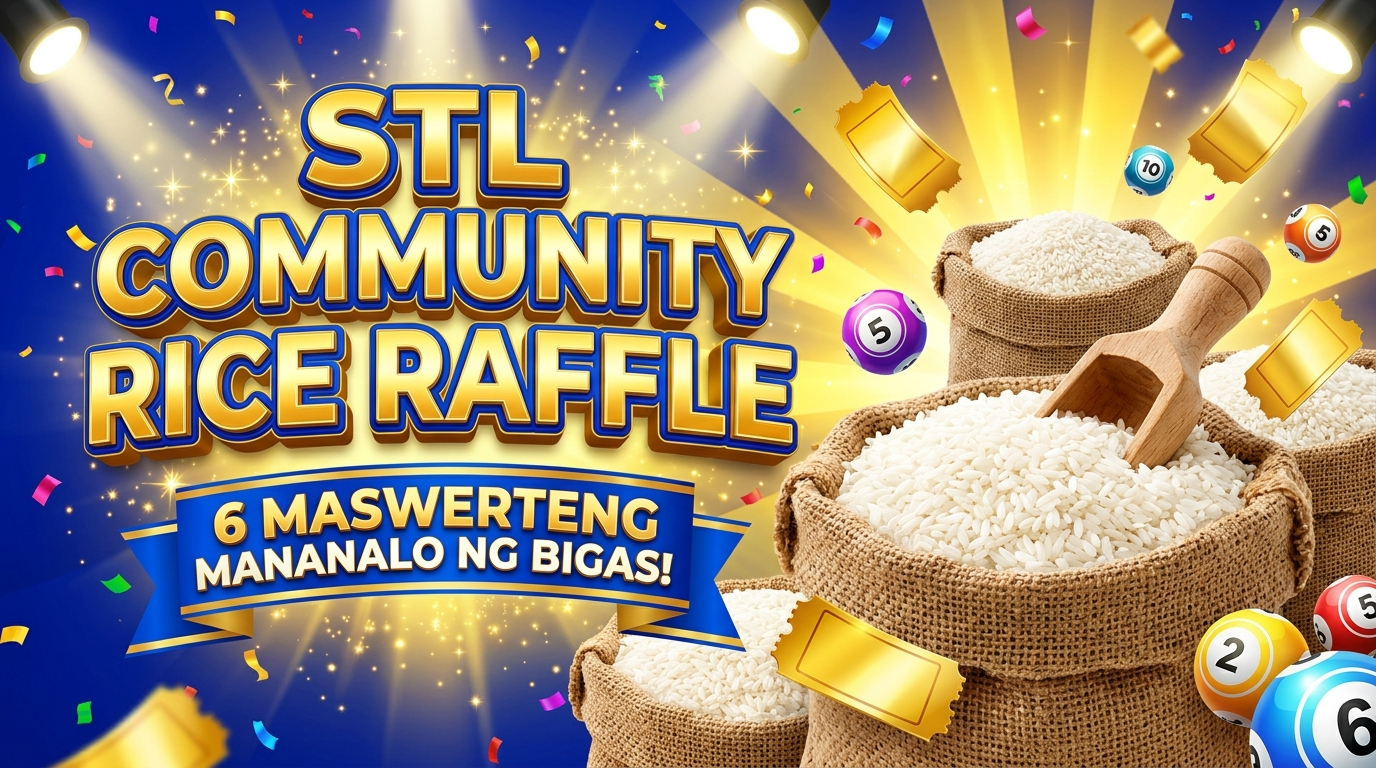
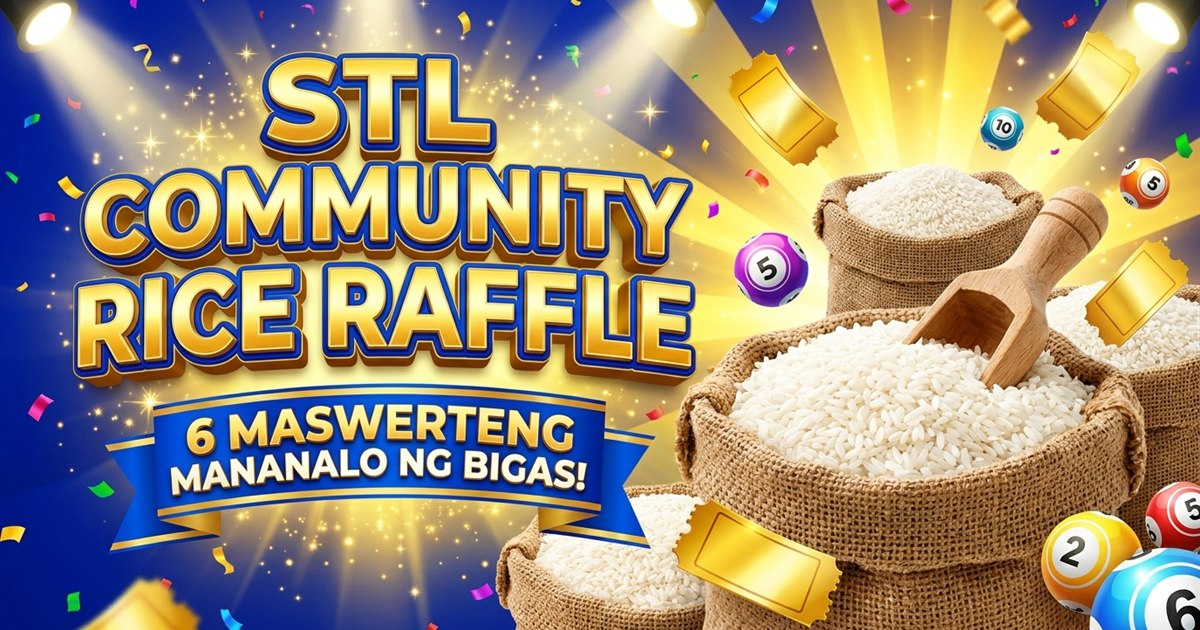
Optimize OG preview image to 1200x630 and add 1-click copy message in ShareModal

diff --git a/src/components/ShareModal.jsx b/src/components/ShareModal.jsx
@@ -23,12 +23,16 @@ function FacebookIcon({ className }) {
 
 export default function ShareModal({ onClose, customUrl = '' }) {
   const [activeTab, setActiveTab] = useState('choice'); // 'choice', 'qr', 'link'
-  const [copied, setCopied] = useState(false);
+  const [copiedLink, setCopiedLink] = useState(false);
+  const [copiedMessage, setCopiedMessage] = useState(false);
   
   // Siguraduhing laging sa LANDING PAGE (/) pupunta ang share link, hindi sa /admin
   const getLandingUrl = () => {
     if (customUrl) return customUrl;
     if (typeof window !== 'undefined') {
+      if (window.location.hostname === 'localhost' || window.location.hostname === '127.0.0.1') {
+        return 'https://stl-raffle-campaign.vercel.app/';
+      }
       return `${window.location.origin}/`;
     }
     return 'https://stl-raffle-campaign.vercel.app/';
@@ -36,28 +40,32 @@ export default function ShareModal({ onClose, customUrl = '' }) {
   const shareUrl = getLandingUrl();
   const shareTitle = '🌾 STL Community Rice Raffle | Manalo ng 5kg & 25kg Bigas!';
   const shareDescription = 'Sumali sa opisyal na STL Community Rice Raffle! 6 Maswerteng Winners ng Bigas (5kg at 25kg). I-click ang link o i-scan ang QR code gamit ang phone camera para mag-proceed sa browser at makuha ang iyong raffle ticket!';
+  const shareMessage = `🌾 STL COMMUNITY RICE RAFFLE 🌾\n6 Maswerteng Mananalo ng Bigas (5kg & 25kg)!\nSumali sa raffle at makuha ang iyong ticket dito:\n👉 ${shareUrl}`;
 
   // QR Code generator URL (350x350 high quality, 10 margin)
   const qrCodeUrl = `https://api.qrserver.com/v1/create-qr-code/?size=350x350&data=${encodeURIComponent(shareUrl)}&margin=12&format=png`;
 
-  const handleCopy = async () => {
+  const copyToClipboard = async (text, setSuccess) => {
     try {
       if (navigator.clipboard && navigator.clipboard.writeText) {
-        await navigator.clipboard.writeText(shareUrl);
+        await navigator.clipboard.writeText(text);
       } else {
         const textArea = document.createElement('textarea');
-        textArea.value = shareUrl;
+        textArea.value = text;
         document.body.appendChild(textArea);
         textArea.select();
         document.execCommand('copy');
         document.body.removeChild(textArea);
       }
-      setCopied(true);
-      setTimeout(() => setCopied(false), 2500);
+      setSuccess(true);
+      setTimeout(() => setSuccess(false), 2500);
     } catch (err) {
-      console.error('Failed to copy link:', err);
+      console.error('Failed to copy text:', err);
     }
   };
+
+  const handleCopyLink = () => copyToClipboard(shareUrl, setCopiedLink);
+  const handleCopyMessage = () => copyToClipboard(shareMessage, setCopiedMessage);
 
   const handleDownloadQr = async () => {
     try {
@@ -83,8 +91,13 @@ export default function ShareModal({ onClose, customUrl = '' }) {
   };
 
   const shareToMessenger = () => {
-    const messengerUrl = `fb-messenger://share/?link=${encodeURIComponent(shareUrl)}`;
-    window.open(messengerUrl, '_blank');
+    const isMobile = typeof navigator !== 'undefined' && /iPhone|iPad|iPod|Android/i.test(navigator.userAgent || '');
+    if (isMobile) {
+      window.location.href = `fb-messenger://share/?link=${encodeURIComponent(shareUrl)}`;
+    } else {
+      const sendUrl = `https://www.facebook.com/dialog/send?link=${encodeURIComponent(shareUrl)}&app_id=1683164939840104&redirect_uri=${encodeURIComponent(shareUrl)}`;
+      window.open(sendUrl, '_blank', 'width=650,height=600');
+    }
   };
 
   const shareToTelegram = () => {
@@ -270,17 +283,17 @@ export default function ShareModal({ onClose, customUrl = '' }) {
                   </div>
                   <button
                     type="button"
-                    onClick={handleCopy}
+                    onClick={handleCopyLink}
                     className={`inline-flex items-center justify-center gap-2 px-5 py-3 rounded-xl text-sm font-black shadow-sm transition ${
-                      copied
+                      copiedLink
                         ? 'bg-emerald-600 text-white'
                         : 'bg-emerald-600 hover:bg-emerald-700 text-white'
                     }`}
                   >
-                    {copied ? (
+                    {copiedLink ? (
                       <>
                         <Check className="w-4 h-4" />
-                        Nakopya na!
+                        Nakopya ang Link!
                       </>
                     ) : (
                       <>
@@ -290,12 +303,59 @@ export default function ShareModal({ onClose, customUrl = '' }) {
                     )}
                   </button>
                 </div>
-                {copied && (
-                  <p className="text-xs font-bold text-emerald-700 mt-2 flex items-center gap-1.5 animate-fadeIn">
-                    <Check className="w-4 h-4" />
-                    Matagumpay na nakopya! Pwede mo na i-paste sa Facebook, Messenger, Viber o SMS.
+              </div>
+
+              {/* 1-Click Copy Full Message for Messenger */}
+              <div className="p-3.5 rounded-xl bg-amber-50/80 border border-amber-200 flex flex-col sm:flex-row items-center justify-between gap-3">
+                <div className="text-left w-full sm:w-auto">
+                  <span className="text-[10px] font-black uppercase tracking-wider bg-amber-200 text-amber-900 px-2 py-0.5 rounded-md">
+                    Copy &amp; Paste sa Messenger
+                  </span>
+                  <p className="text-xs font-bold text-slate-800 mt-1">
+                    I-copy ang kumpletong mensahe na may kasamang paanyaya at link!
                   </p>
-                )}
+                </div>
+                <button
+                  type="button"
+                  onClick={handleCopyMessage}
+                  className={`w-full sm:w-auto inline-flex items-center justify-center gap-2 px-4 py-2.5 rounded-xl text-xs font-black shadow-sm transition shrink-0 ${
+                    copiedMessage
+                      ? 'bg-emerald-600 text-white'
+                      : 'bg-amber-500 hover:bg-amber-600 text-slate-950'
+                  }`}
+                >
+                  {copiedMessage ? (
+                    <>
+                      <Check className="w-4 h-4" />
+                      Nakopya ang Mensahe!
+                    </>
+                  ) : (
+                    <>
+                      <Copy className="w-4 h-4" />
+                      Kopyahin ang Mensahe
+                    </>
+                  )}
+                </button>
+              </div>
+
+              {/* Success Notification */}
+              {(copiedLink || copiedMessage) && (
+                <div className="p-2.5 rounded-xl bg-emerald-50 border border-emerald-200 text-xs font-bold text-emerald-800 flex items-center gap-2 animate-fadeIn">
+                  <Check className="w-4 h-4 text-emerald-600 shrink-0" />
+                  <span>
+                    {copiedMessage 
+                      ? 'Matagumpay na nakopya ang buong mensahe! I-paste lang sa Messenger, Facebook, o Group Chat.'
+                      : 'Matagumpay na nakopya ang link! Pwede mo na i-paste sa Messenger, Facebook, o SMS.'}
+                  </span>
+                </div>
+              )}
+
+              {/* Messenger Preview Tip */}
+              <div className="p-3 rounded-xl bg-blue-50/70 border border-blue-200 text-xs text-blue-900 flex items-start gap-2.5">
+                <span className="text-base leading-none">💡</span>
+                <p className="leading-relaxed">
+                  <strong>Tip sa Messenger:</strong> Pagka-paste ng link sa chat box, <strong>maghintay ng 1 hanggang 2 segundo</strong> bago pindutin ang Send para kusa munang lumitaw ang litrato ng Bigas at Raffle Card!
+                </p>
               </div>
 
               {/* Direct Social Media Sharing Buttons */}

diff --git a/index.html b/index.html
@@ -1,5 +1,5 @@
 <!DOCTYPE html>
-<html lang="fil">
+<html lang="fil" prefix="og: https://ogp.me/ns#">
   <head>
     <meta charset="UTF-8" />
     <meta name="viewport" content="width=device-width, initial-scale=1.0" />
@@ -17,9 +17,11 @@
     <meta property="og:image" content="https://stl-raffle-campaign.vercel.app/images/share-preview.jpg" />
     <meta property="og:image:secure_url" content="https://stl-raffle-campaign.vercel.app/images/share-preview.jpg" />
     <meta property="og:image:type" content="image/jpeg" />
-    <meta property="og:image:width" content="1376" />
-    <meta property="og:image:height" content="768" />
+    <meta property="og:image:width" content="1200" />
+    <meta property="og:image:height" content="630" />
     <meta property="og:image:alt" content="STL Community Rice Raffle Banner" />
+    <meta property="og:locale" content="fil_PH" />
+    <meta property="og:locale:alternate" content="en_US" />
 
     <!-- Twitter Card / Telegram -->
     <meta name="twitter:card" content="summary_large_image" />
